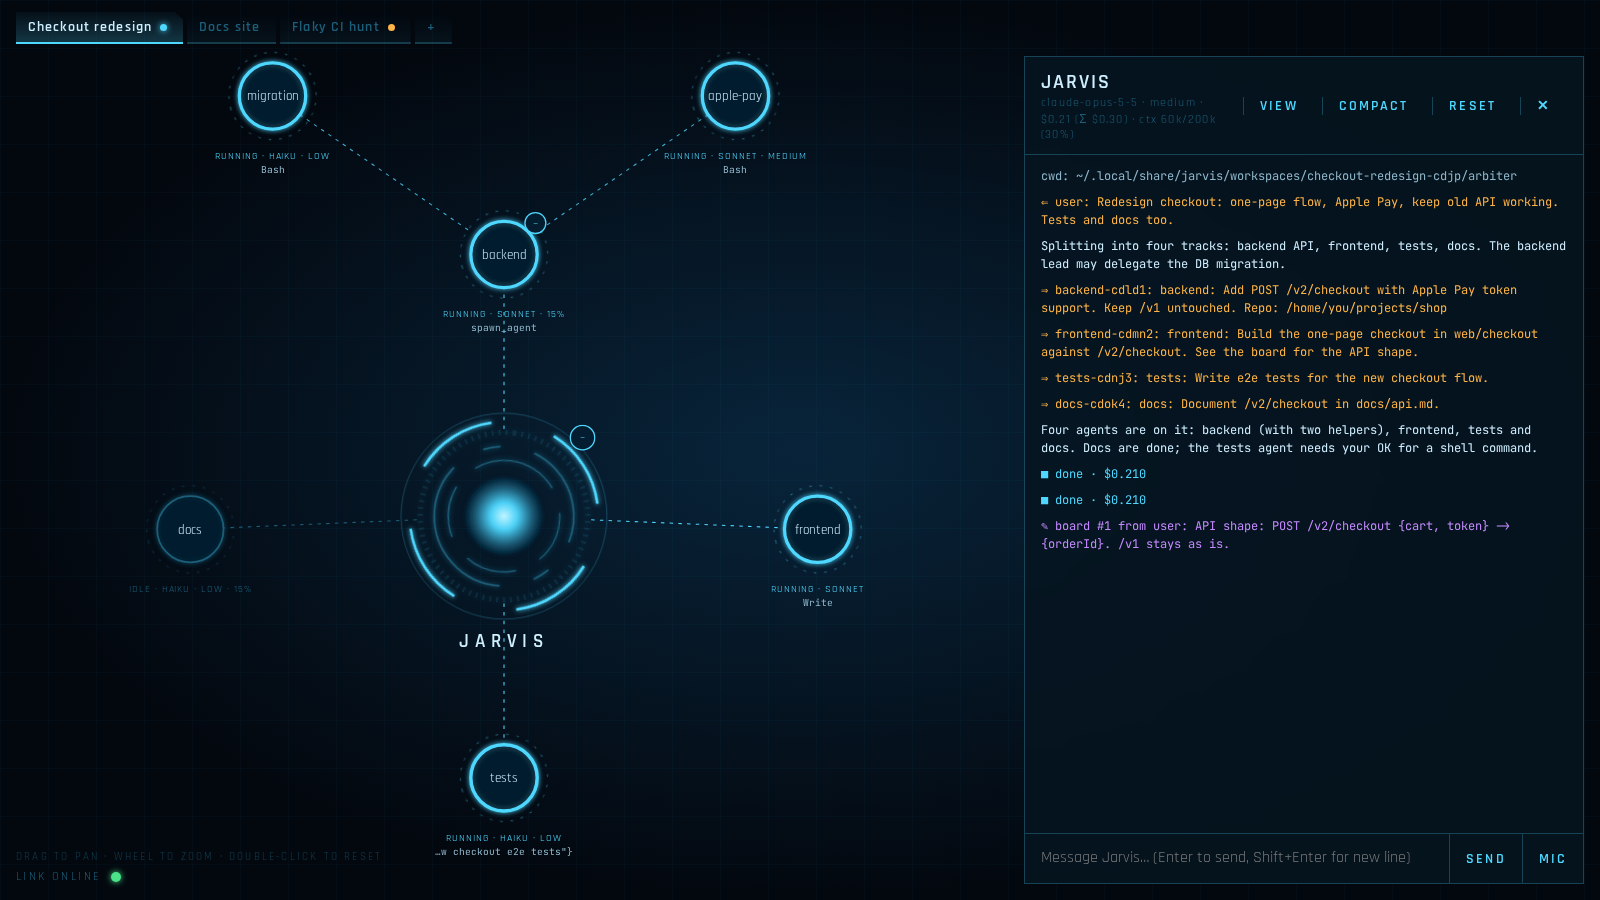
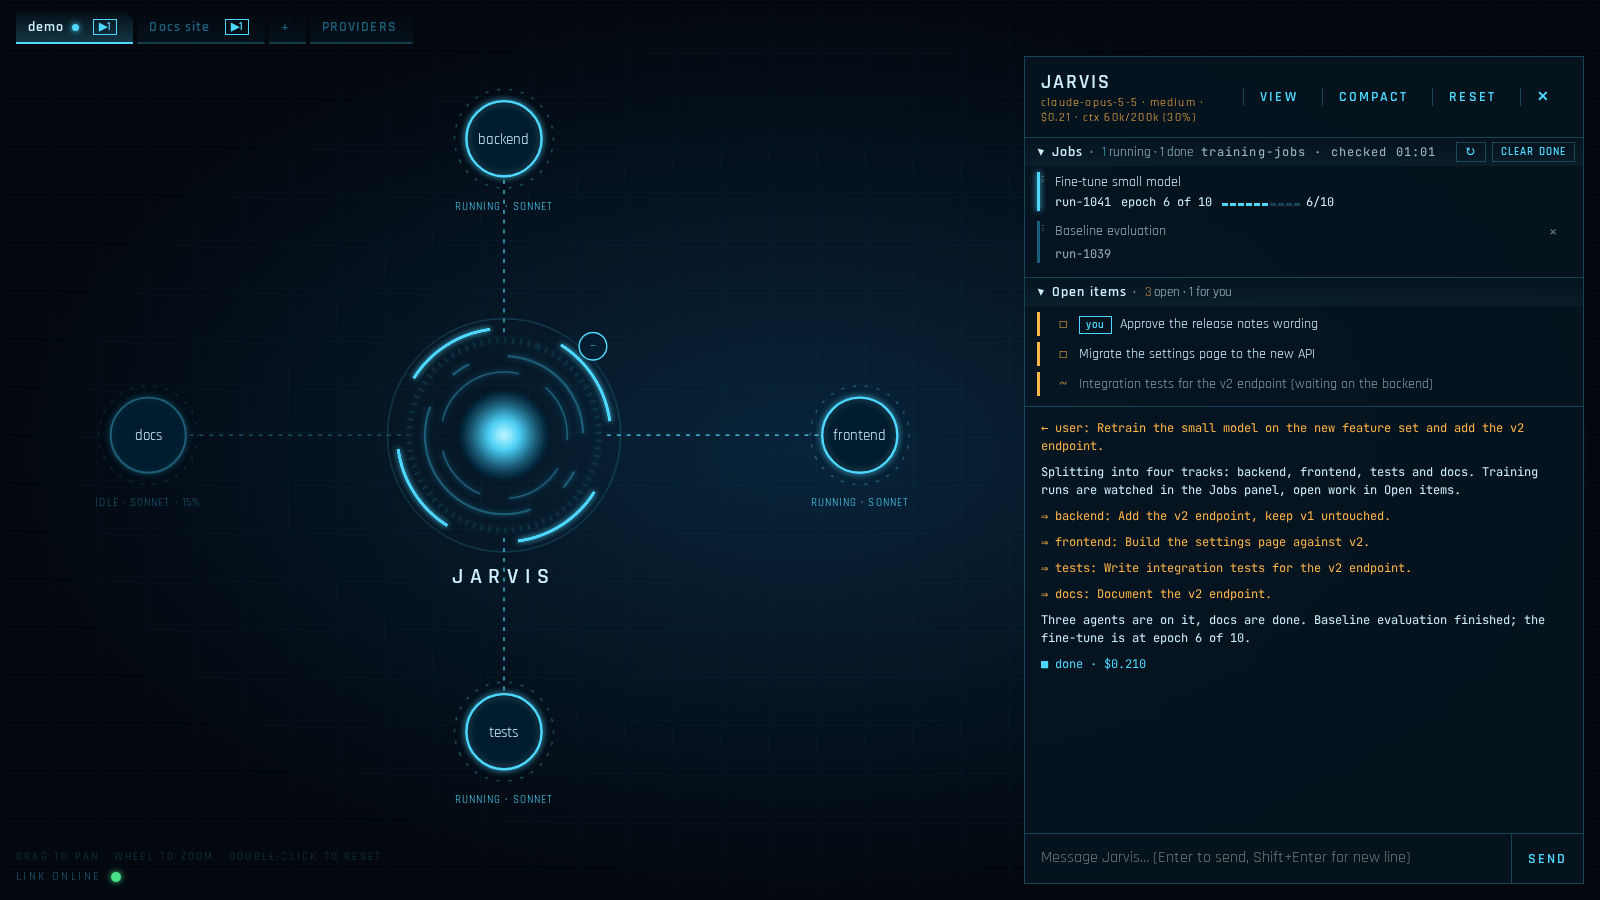
Add screenshots of the panels and the provider dialog
The guide shows the Jobs and Open items panels and the approval card of a new job provider, and the hero screenshot is retaken to show the panels.

diff --git a/docs/GUIDE.md b/docs/GUIDE.md
@@ -94,6 +94,8 @@ The dot at the bottom left shows whether your Claude access works: green the las
 
 Panels are pinned blocks above Jarvis's chat. They show only while Jarvis (the center circle) is selected and at least one panel has something to show.
 
+![The Jobs panel with a failed, a running and a finished row, the Open items panel, and Jarvis's chat below](screenshots/panels.png)
+
 - **Jobs** lists long jobs: CI runs, training, deploys. A job is a row with a state edge (failed red, waiting amber, running cyan, done dim), its label, id (a link when the provider gives one), step, progress, time running and, when the provider has it, the cost as `$12.40 (as of 14:05)`. A field the provider does not return is not shown at all, never as a placeholder.
 - Rows sort by severity: failed first, then stale, waiting and needing attention, then running, then done; the most recent change first. Drag a row to put it where you want; the order is kept per workspace and **Reset order** brings the sort back. A failed row stays highlighted even under your own order.
 - A finished row stays until you press **×** on it or **Clear done**. **↻** checks now. Rows that Jarvis cannot refresh (provider failed, disabled or changed) are dimmed with a note.
@@ -103,6 +105,8 @@ Panels are pinned blocks above Jarvis's chat. They show only while Jarvis (the c
 - **Status providers** are small scripts that you approve once. When a job has no provider and someone keeps checking it by hand, and the workspace has a notes folder, Jarvis offers to build one (it asks once per kind of job and records your answer in `status-providers.md` in the notes folder). A new provider appears as an approval card with its manifest, files and test report; **Approve** stays off until the files are shown on the card, and pins those exact files, so a later change stops the provider until you approve again. Without a notes folder Jarvis cannot build providers and tells you to set one. **PROVIDERS** (top bar, shown once any provider or proposal exists, with the number of proposals waiting) lists all providers, their state and **Approve** for a folder you placed by hand (press **Files** first: Approve stays off until the files are shown); the tab menu **Job providers…** picks which providers one workspace may use. Unsaved ticks survive a refresh, and ticking every provider saves an empty list, which means all approved providers. Contract, safety rules and how to write one: [STATUS-PROVIDERS.md](STATUS-PROVIDERS.md).
 - A provider runs on your machine with your rights, outside the agent permission checks. Approve only what you read.
 - Turn it all off with `JARVIS_JOBS=0` (see Settings).
+
+![The approval card of a new job provider: manifest, files, test report, Approve and Reject](screenshots/provider-dialog.png)
 
 ### Open items
 
